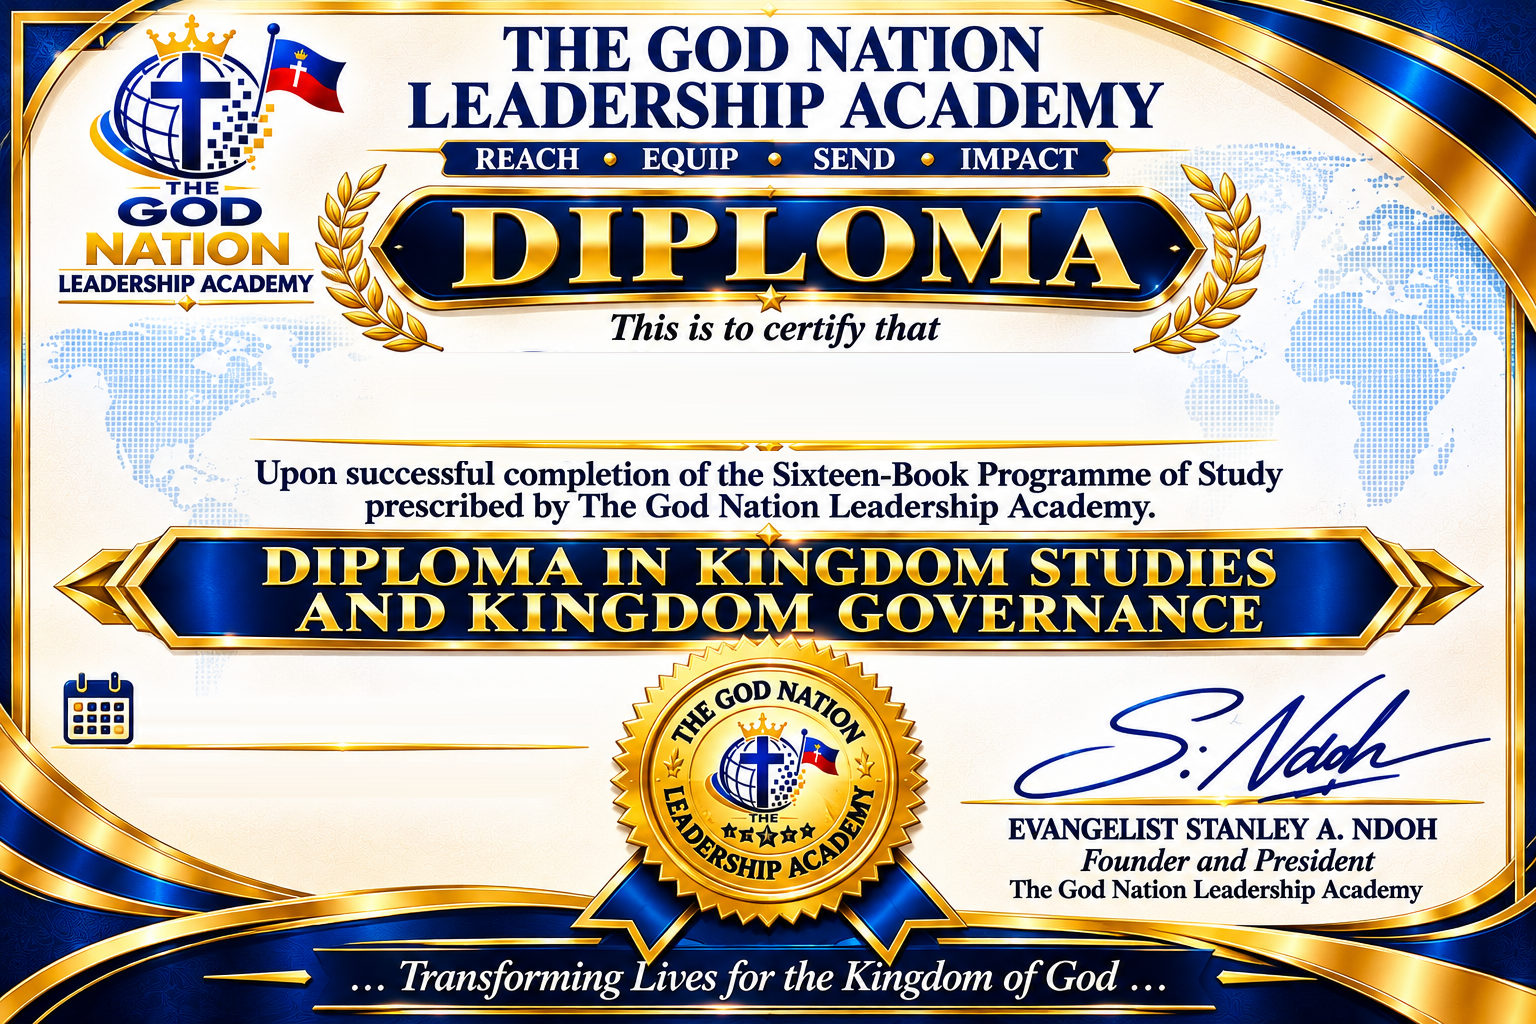
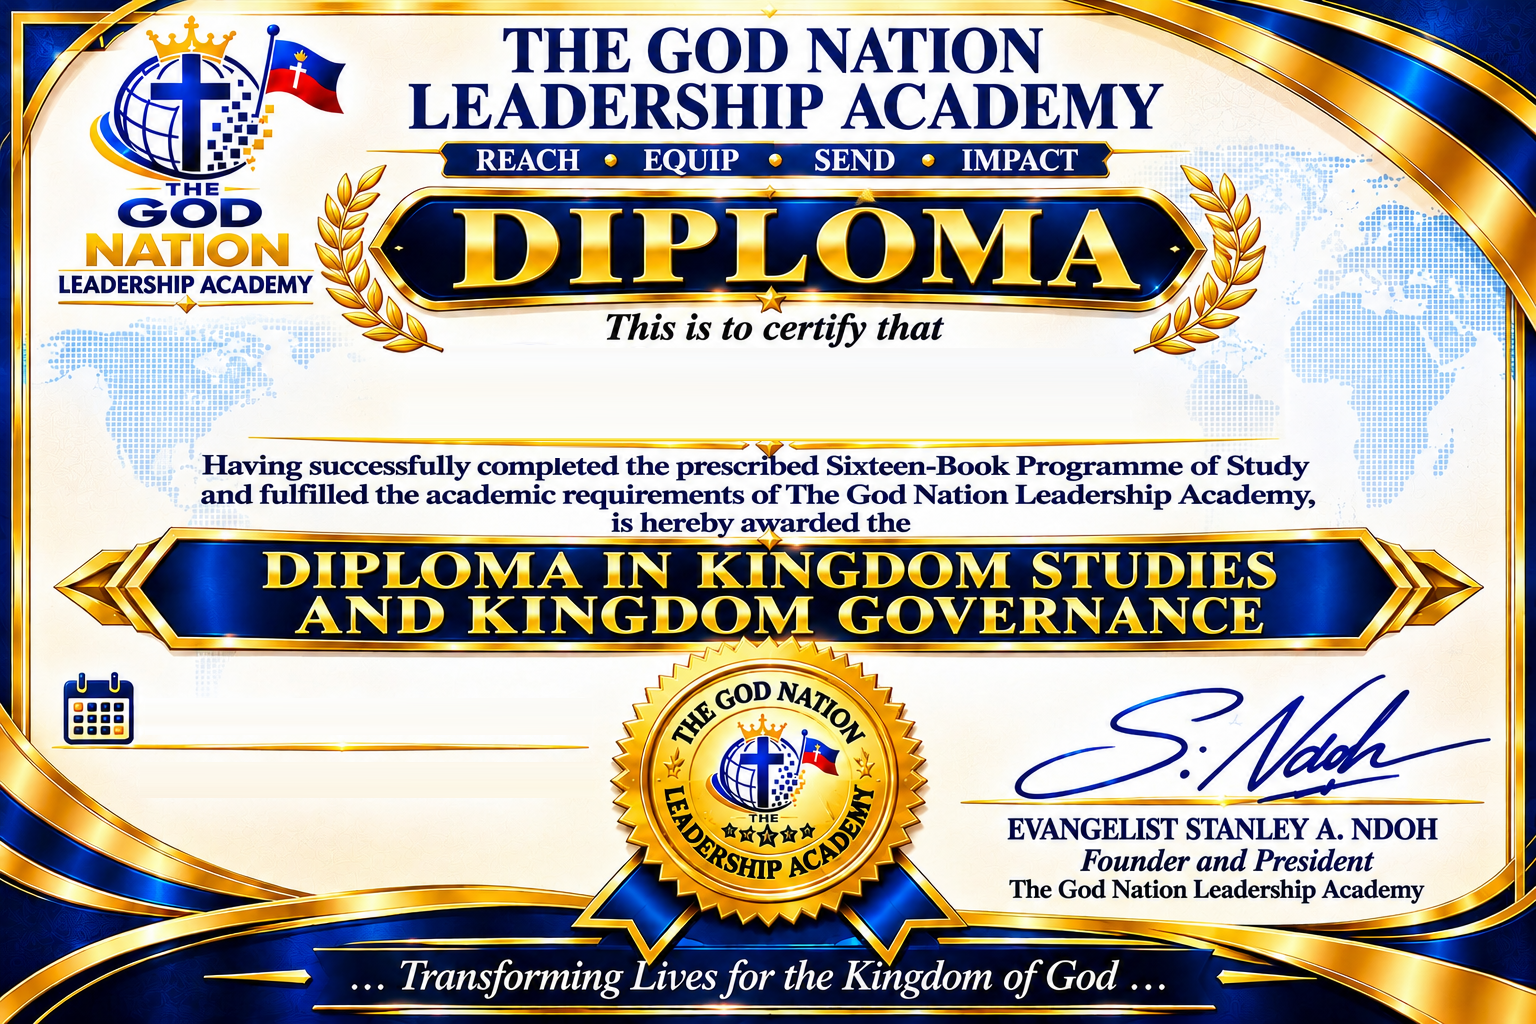
Certificate: corrected English and French designs (#89)
* Admin can delete an assembly (typed-name confirmation, Headquarters protected, sub-assemblies move up)

Adds DELETE /api/admin/communities/:id and GET /:id/delete-impact, a Delete
panel in the Communities admin (EN/FR), audit entry COMMUNITY_DELETED, and
server + client tests. People are never deleted, only removed from the assembly.

Claude-Session: https://claude.ai/code/session_013jhgbYLWS3xTqZJzXKnpEP

* Chats page order and tabs, Leadership card for everyone, add-many-people tool, delete moves members

- Leadership card on the Chats page for all members; non-leaders see a locked page pointing to the Leadership School; removed from profile
- Chats: fixed assembly order (HQ, then generations), Assemblies/Private tabs with unread badges, periodic refresh
- Add many people by generation (admin dashboard and central admin profile), new ADDED_TO_ASSEMBLY notification
- Deleting an assembly can move its members to another assembly

Claude-Session: https://claude.ai/code/session_013jhgbYLWS3xTqZJzXKnpEP

* Sanctions: mutes (3/7/15/30 days), lifting rules, request for excuse, removal requests; Leadership Team pinned under HQ in Chats

- MemberSanction and RemovalRequest, notifications, hourly 'mute ended' sweep
- A muted person can read but not write; leaders cannot lift a mute the central admin placed
- Only the central admin decides removals (approve/decline) or removes directly
[…]

diff --git a/server/src/lib/curriculumIntro.ts b/server/src/lib/curriculumIntro.ts
@@ -140,12 +140,12 @@ Graduates may also proceed to Phase 2 by joining the leadership team, where they
 *Know Who You Are. Know What Is Yours. Rule Your Life Under Christ. Carry the Gospel of the Kingdom to the Nations.*`;
 
 export const DEFAULT_INTRO_FR = `# Présentation du diplôme
-Le *Diplôme en études du Royaume et gouvernance du Royaume* est un programme de formation biblique et spirituelle conçu pour aider les croyants à comprendre le Royaume de Dieu, à découvrir leur identité et leurs droits en Christ, et à apprendre à vivre selon les principes du Royaume.
+Le *Diplôme d’études du Royaume et de gouvernance du Royaume* est un programme de formation biblique et spirituelle conçu pour aider les croyants à comprendre le Royaume de Dieu, à découvrir leur identité et leurs droits en Christ, et à apprendre à vivre selon les principes du Royaume.
 
 À travers {{books}} livres répartis en {{levels}} niveaux progressifs, les étudiants acquièrent une compréhension fondamentale du Royaume, des principes spirituels qui gouvernent la vie du citoyen du Royaume, ainsi que de son identité, de ses droits, de son héritage et de son autorité en Christ.
 
 - *Institution :* The God Nation Leadership Academy
-- *Diplôme délivré :* Diplôme en études du Royaume et gouvernance du Royaume
+- *Diplôme délivré :* Diplôme d’études du Royaume et de gouvernance du Royaume
 - *Auteur et fondateur :* Évangéliste Stanley A. Ndoh
 - *Nombre de livres :* {{books}}
 - *Nombre d’examens :* {{books}}
@@ -203,7 +203,7 @@ Chaque livre est accompagné d’un examen en ligne.
 Ce système permet de s’assurer que chaque étudiant progresse avec une compréhension suffisante des enseignements avant de passer au livre suivant.
 
 # Obtention du diplôme et certification
-Pour obtenir le Diplôme en études du Royaume et gouvernance du Royaume, l’étudiant doit :
+Pour obtenir le Diplôme d’études du Royaume et de gouvernance du Royaume, l’étudiant doit :
 - Étudier les {{books}} livres du programme.
 - Passer les {{books}} examens correspondants.
 - Obtenir au moins 70 % à chacun des examens.

diff --git a/docs/LEADERSHIP_SUPERVISION_PLAN.md b/docs/LEADERSHIP_SUPERVISION_PLAN.md
@@ -413,7 +413,7 @@ Decided with the founder, 6 November 2026. Nothing below is built until the foun
 
 **Still to build.** The certificate (sample screen, request when all books are passed, delivery chosen by the student — post, email/WhatsApp to print, or collect; price agreed privately and never shown) — waiting for the founder's sample and signatories.
 
-**Certificate — decisions so far (design sample received).** Diploma title: *Diploma in Kingdom Studies and Kingdom Governance* (French: *Diplôme en études du Royaume et gouvernance du Royaume*), now used in the introduction, the page subtitle and everywhere the title appears. Sixteen books (Kingdom Keys Vol. 9 to be added at number 11; every count in the app follows the real number of books). Certificate: school name "The God Nation Leadership Academy", slogan "Reach · Equip · Send · Impact", one signature (Evangelist Stanley A. Ndoh, Founder and President), "Issued on this [day] of [month], [year]", number `GNLA-YYYY-NNN`, no QR code, no place. Still needed from the founder: a blank, higher-resolution design file (no name, date or number), whether a French version is wanted, and whether a "verify by number" page is wanted.
+**Certificate — decisions so far (design sample received).** Diploma title: *Diploma in Kingdom Studies and Kingdom Governance* (French: *Diplôme d’études du Royaume et de gouvernance du Royaume*), now used in the introduction, the page subtitle and everywhere the title appears. Sixteen books (Kingdom Keys Vol. 9 to be added at number 11; every count in the app follows the real number of books). Certificate: school name "The God Nation Leadership Academy", slogan "Reach · Equip · Send · Impact", one signature (Evangelist Stanley A. Ndoh, Founder and President), "Issued on this [day] of [month], [year]", number `GNLA-YYYY-NNN`, no QR code, no place. Still needed from the founder: a blank, higher-resolution design file (no name, date or number), whether a French version is wanted, and whether a "verify by number" page is wanted.
 
 ## The Academy certificate — request, issue, deliver
 
@@ -426,3 +426,5 @@ Decided with the founder, 6 November 2026. Nothing below is built until the foun
 **Server.** `CertificateRequest` (one per person), `lib/certificates.ts`, `routes/memberCertificate.ts` (`GET/POST /api/member/certificate`), `routes/adminCertificates.ts` (`/api/admin/certificates`), notifications `CERTIFICATE_REQUESTED` (to the central admin) and `CERTIFICATE_ISSUED` (to the student). Not built (waiting for the founder's decision): a public "verify a certificate by number" page — the QR code was left off the design.
 
 **Certificate — follow-up changes.** (1) *Language:* the example and the request follow the language the student reads the app in (French readers see the French design, with a switch to English); previously the account's saved language decided, which was often English for francophones. (2) *Ask in advance:* anyone can fill in the certificate request even before starting to study (the Academy page shows the card to everyone, below "Begin"); they are told plainly that they must pass all 16 books first, the request is saved, and the central admin sees on each open request how far the student is ("5 of 16 books" / "ready to issue"). Issuing before every book is passed needs a second, deliberate yes from the admin (`override`). The admin is notified of a request only when the student has already passed everything. (3) *16 books:* `Settings.trainingBooksTotal` (default 16, editable in Admin → Library → Arrange the curriculum) is the number of books told to students; every count shown (Academy page, Learn card, progress lines, introduction numbers, certificate texts) is the larger of that number and the books really on the site, and a note on the Academy page says how many more will be added. The certificate needs all of them, so nobody can be eligible while only 15 are on the site. Leadership-readiness lists (cells) still count the exams of the books on the site.
+
+**Certificate — corrected designs.** The founder sent corrected English and French designs (new body wording; French tagline "Atteindre · Former · Envoyer · Impacter"; French title "Diplôme d’études du Royaume et de gouvernance du Royaume", which the app's French texts now use). The blank copies in `client/public/certificate/` were remade from them (name, date and number cleared, plus the small marks of the old name's flourishes on the gold line); the drawing positions did not change. Known slips in the French picture itself, to be corrected by the designer: the banner reads "DIPLOME" (should be "DIPLÔME") and the signature line reads "ÉVANGELIST" (should be "ÉVANGÉLISTE").
